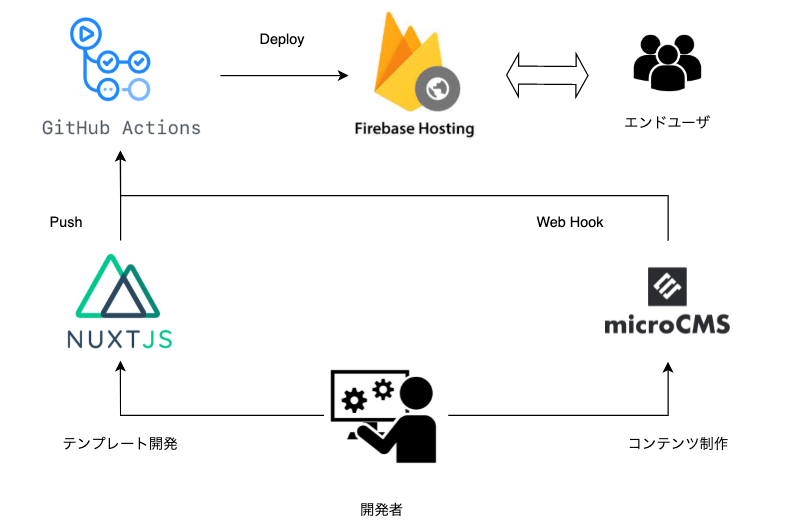
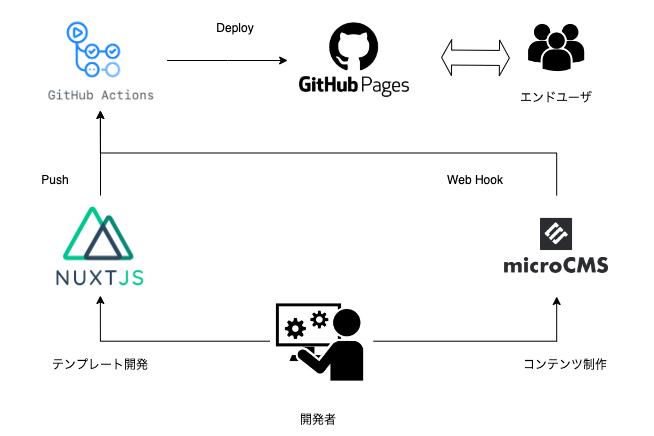
setup github pages

diff --git a/nuxt.config.ts b/nuxt.config.ts
@@ -8,6 +8,11 @@ const nuxtConfig = defineNuxtConfig(async (): Promise<NuxtConfig> => {
     target: 'static', // 静的サイトホスティング
     srcDir: 'src/',
 
+    // GitHub Pages で参照できるようにコンテンストルートを指定する
+    app: {
+      baseURL: '/nuxtjs-jamstack-sample/',
+    },
+
     // 環境変数
     publicRuntimeConfig: {
       APP_NAME: name,
@@ -43,13 +48,6 @@ const nuxtConfig = defineNuxtConfig(async (): Promise<NuxtConfig> => {
           )
         return pages
       })(),
-      // routes: [
-      //   '/posts/sjj40pwoh',
-      //   '/posts/oejgol6u6n0',
-      //   '/posts/avsacv153g',
-      //   '/posts/xzauuqe5-3',
-      //   '/posts/onu0zqn5d',
-      // ],
     },
     intlify: {
       localeDir: 'locales',
